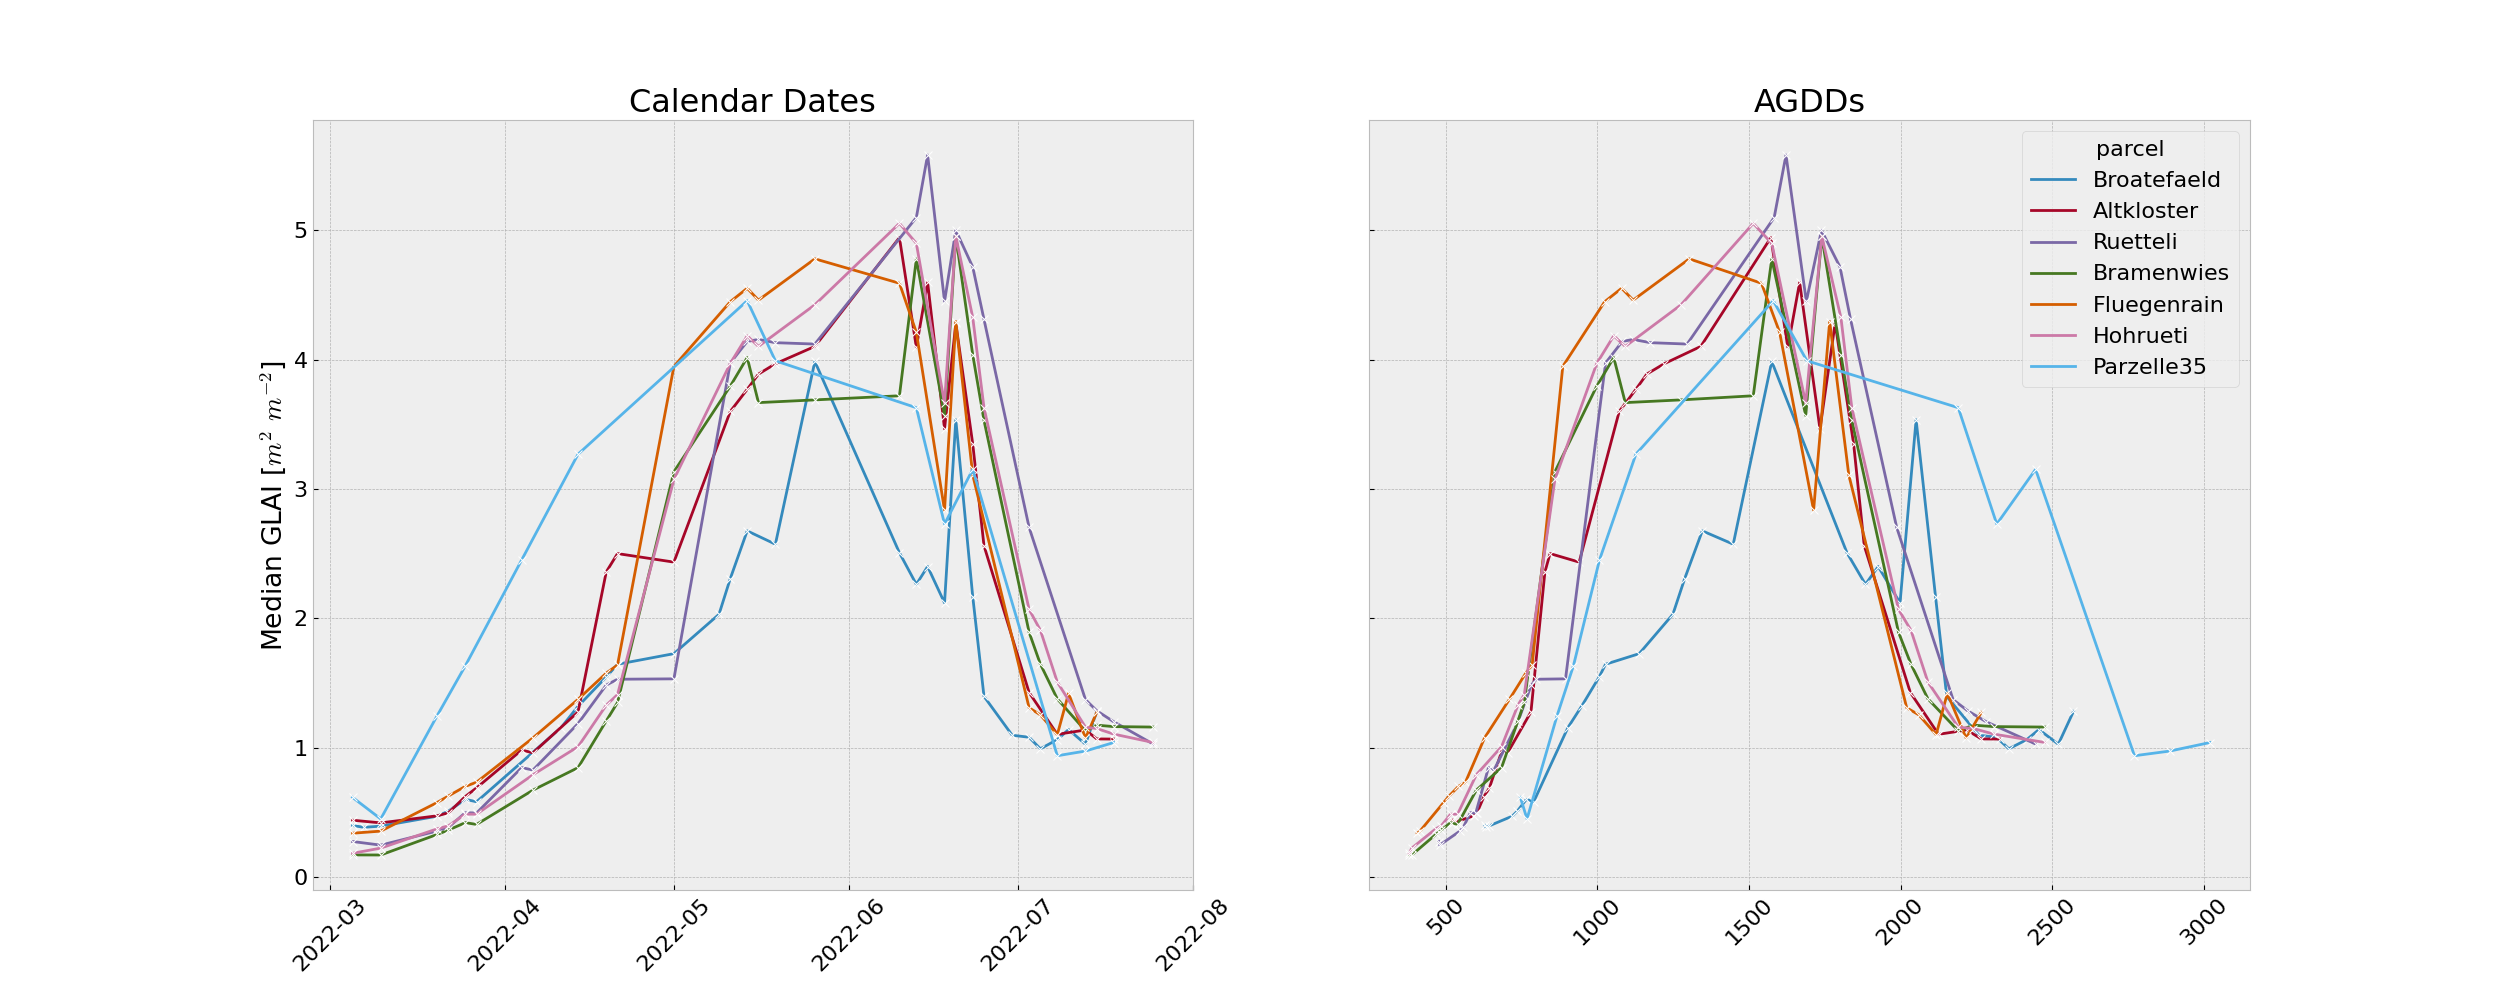
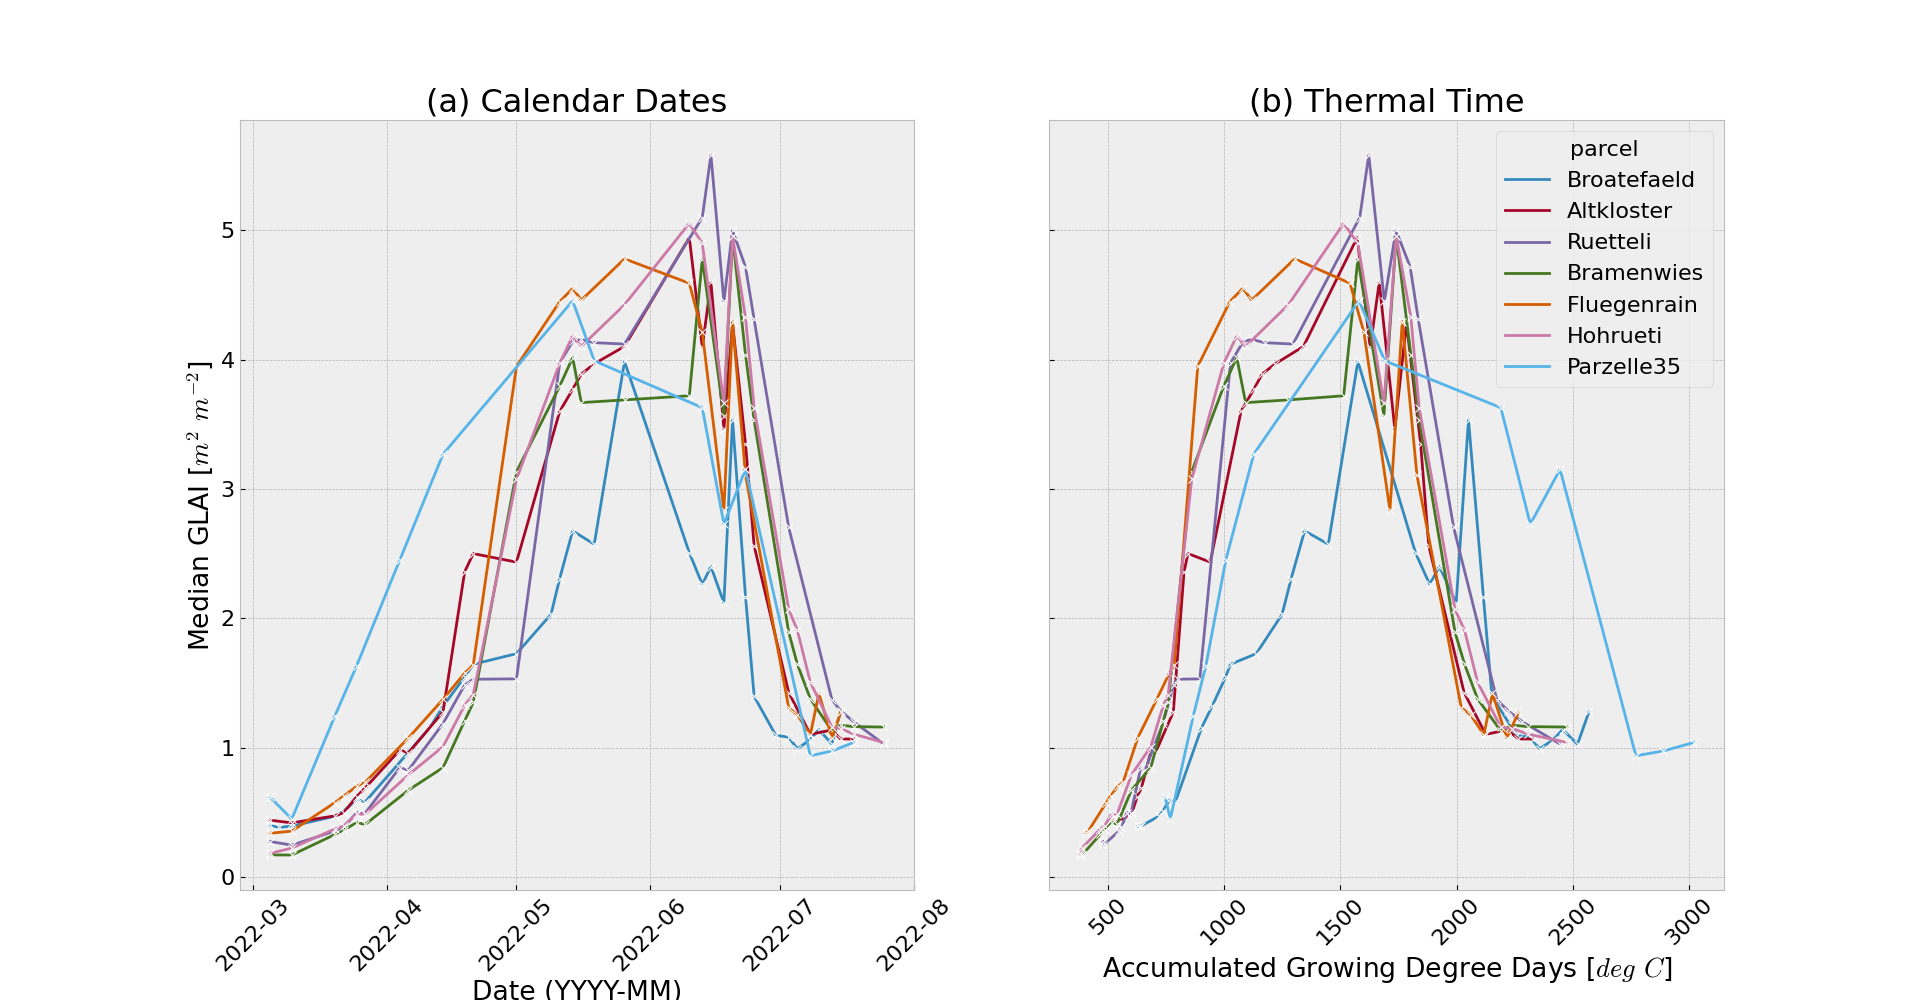
changing axis labels

diff --git a/src/figures_paper/time_series_plots.py b/src/figures_paper/time_series_plots.py
@@ -129,12 +129,12 @@ if __name__ == '__main__':
     sns.lineplot(x='sensing_date', y='q50', hue='parcel', data=df, ax=ax[0], legend=False,
                  marker='x')
     sns.lineplot(x='agdd', y='q50', hue='parcel', data=df, ax=ax[1], marker='x')
-    ax[0].set_xlabel('')
+    ax[0].set_xlabel('Date (YYYY-MM)')
     ax[0].set_ylabel(r'Median GLAI [$m^2$ $m^{-2}$]')
-    ax[0].set_title('Calendar Dates')
+    ax[0].set_title('(a) Calendar Dates')
     plt.setp(ax[0].xaxis.get_majorticklabels(), rotation=45)
-    ax[1].set_title('AGDDs')
-    ax[1].set_xlabel('')
+    ax[1].set_title('(b) Thermal Time')
+    ax[1].set_xlabel(r'Accumulated Growing Degree Days [$deg$ $C$]')
     plt.setp(ax[1].xaxis.get_majorticklabels(), rotation=45)
     f.savefig(out_dir.joinpath('ts_dates_agdds.png'))
 
